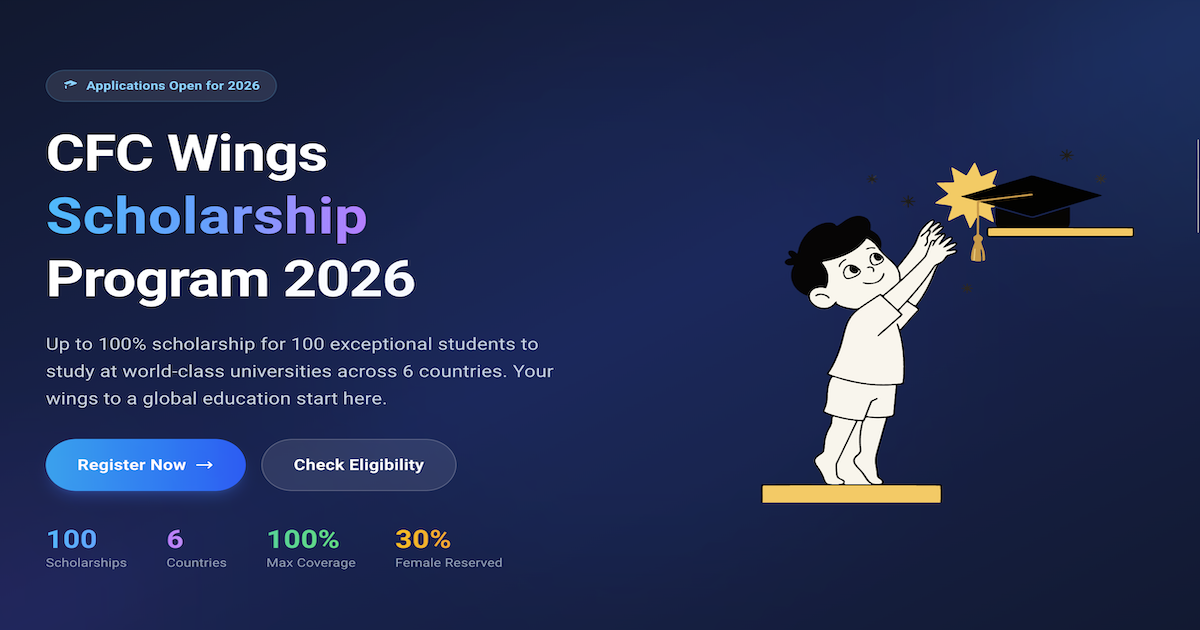
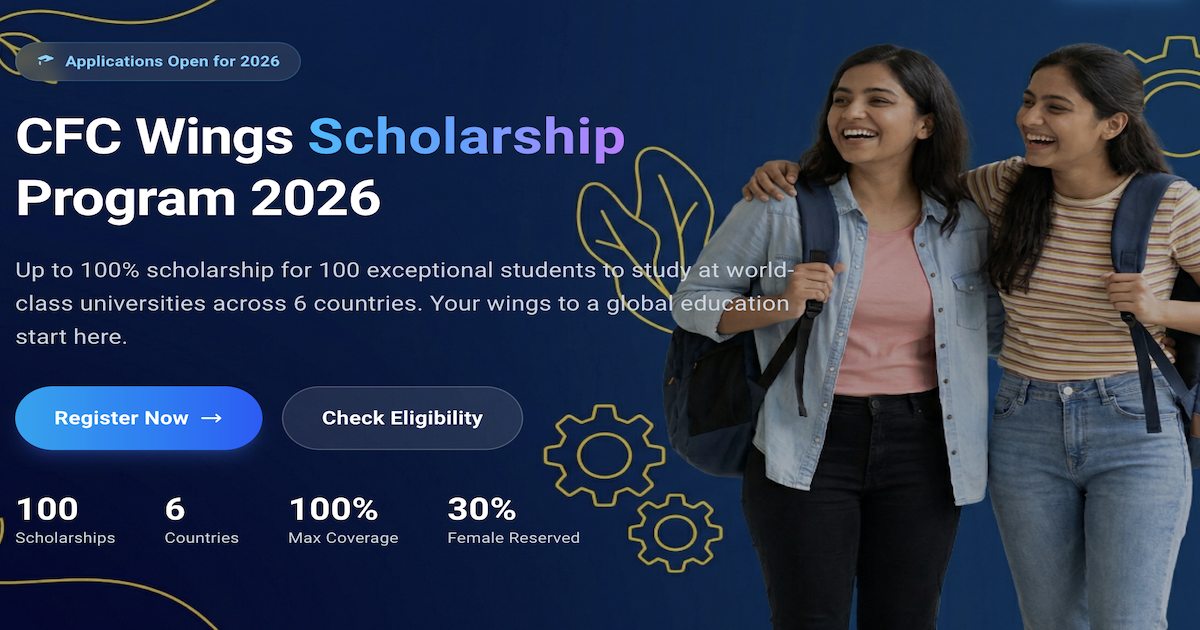
fix: Update route handling in server.js to support dynamic paths and enhance Wings Scholarship page with new background image and layout adjustments

diff --git a/client/src/pages/public/WingsScholarship.jsx b/client/src/pages/public/WingsScholarship.jsx
@@ -52,92 +52,79 @@ const WingsScholarship = () => {
       {/* ============================================================ */}
       {/* SECTION 1: HERO - Text Left, Image Right */}
       {/* ============================================================ */}
-      <section className="relative overflow-hidden bg-gradient-to-br from-slate-900 via-blue-950 to-slate-900 lg:h-screen lg:min-h-[700px]">
-        {/* Background decorative elements */}
-        <div className="absolute top-0 right-0 w-96 h-96 bg-gradient-to-bl from-sky-500/15 to-transparent rounded-full blur-3xl" />
-        <div className="absolute bottom-0 left-0 w-80 h-80 bg-gradient-to-tr from-purple-500/10 to-transparent rounded-full blur-3xl" />
-        <div className="absolute top-1/2 left-1/2 -translate-x-1/2 -translate-y-1/2 w-[600px] h-[600px] bg-blue-500/5 rounded-full blur-3xl" />
+      <section
+        className="relative overflow-hidden lg:h-screen lg:min-h-[700px]"
+        style={{
+          backgroundImage: 'url(/images/hero-scholarship.jpg)',
+          backgroundSize: 'cover',
+          backgroundPosition: 'center',
+        }}
+      >
+        {/* Dark overlay for text readability */}
+        <div className="absolute inset-0 bg-black/25" />
 
-        <div className="container mx-auto px-4 py-16 md:py-24 lg:py-0 lg:h-full lg:flex lg:items-center">
-          <div className="grid lg:grid-cols-2 gap-12 lg:gap-16 items-center w-full">
-            {/* Left: Text */}
-            <motion.div
-              initial={{ opacity: 0, x: -40 }}
-              animate={{ opacity: 1, x: 0 }}
-              transition={{ duration: 0.7 }}
-            >
-              <span className="inline-flex items-center gap-2 px-4 py-2 bg-white/10 backdrop-blur-sm rounded-full text-sky-300 text-sm font-semibold border border-sky-400/20 shadow-sm mb-6">
-                <svg className="w-4 h-4" fill="currentColor" viewBox="0 0 20 20"><path d="M10.394 2.08a1 1 0 00-.788 0l-7 3a1 1 0 000 1.84L5.25 8.051a.999.999 0 01.356-.257l4-1.714a1 1 0 11.788 1.838L7.667 9.088l1.94.831a1 1 0 00.787 0l7-3a1 1 0 000-1.838l-7-3zM3.31 9.397L5 10.12v4.102a8.969 8.969 0 00-1.05-.174 1 1 0 01-.89-.89 11.115 11.115 0 01.25-3.762z" /></svg>
-                Applications Open for 2026
-              </span>
+        <div className="relative z-10 container mx-auto px-4 py-16 md:py-24 lg:py-0 lg:h-full lg:flex lg:items-center">
+          <motion.div
+            initial={{ opacity: 0, y: 30 }}
+            animate={{ opacity: 1, y: 0 }}
+            transition={{ duration: 0.7 }}
+            className="max-w-2xl"
+          >
+            <span className="inline-flex items-center gap-2 px-4 py-2 bg-white/10 backdrop-blur-sm rounded-full text-sky-300 text-sm font-semibold border border-sky-400/20 shadow-sm mb-6">
+              <svg className="w-4 h-4" fill="currentColor" viewBox="0 0 20 20"><path d="M10.394 2.08a1 1 0 00-.788 0l-7 3a1 1 0 000 1.84L5.25 8.051a.999.999 0 01.356-.257l4-1.714a1 1 0 11.788 1.838L7.667 9.088l1.94.831a1 1 0 00.787 0l7-3a1 1 0 000-1.838l-7-3zM3.31 9.397L5 10.12v4.102a8.969 8.969 0 00-1.05-.174 1 1 0 01-.89-.89 11.115 11.115 0 01.25-3.762z" /></svg>
+              Applications Open for 2026
+            </span>
 
-              <h1 className="text-4xl md:text-5xl lg:text-6xl font-bold text-white mb-6 leading-tight">
-                CFC Wings{' '}
-                <span className="bg-gradient-to-r from-sky-400 via-blue-400 to-purple-400 bg-clip-text text-transparent">
-                  Scholarship
-                </span>{' '}
-                Program 2026
-              </h1>
+            <h1 className="text-4xl md:text-5xl lg:text-6xl font-bold text-white mb-6 leading-tight">
+              CFC Wings{' '}
+              <span className="bg-gradient-to-r from-sky-400 via-blue-400 to-purple-400 bg-clip-text text-transparent">
+                Scholarship
+              </span>{' '}
+              Program 2026
+            </h1>
 
-              <p className="text-lg md:text-xl text-slate-300 mb-8 leading-relaxed max-w-xl">
-                Up to 100% scholarship for 100 exceptional students to study at world-class universities across 6 countries. Your wings to a global education start here.
-              </p>
+            <p className="text-lg md:text-xl text-slate-300 mb-8 leading-relaxed">
+              Up to 100% scholarship for 100 exceptional students to study at world-class universities across 6 countries. Your wings to a global education start here.
+            </p>
 
-              <div className="flex flex-wrap gap-4 mb-10">
-                <a
-                  href={EVENT_URL}
-                  target="_blank"
-                  rel="noopener noreferrer"
-                  className="px-8 py-4 bg-gradient-to-r from-sky-500 to-blue-600 text-white rounded-full font-bold text-lg hover:from-sky-400 hover:to-blue-500 transition-all shadow-lg shadow-blue-500/25 inline-flex items-center gap-2"
-                >
-                  Register Now
-                  <svg className="w-5 h-5" fill="none" stroke="currentColor" viewBox="0 0 24 24"><path strokeLinecap="round" strokeLinejoin="round" strokeWidth={2} d="M17 8l4 4m0 0l-4 4m4-4H3" /></svg>
-                </a>
-                <a
-                  href="#eligibility"
-                  className="px-8 py-4 bg-white/10 text-white rounded-full font-semibold text-lg border border-white/20 hover:bg-white/20 transition-all inline-flex items-center gap-2"
-                >
-                  Check Eligibility
-                </a>
+            <div className="flex flex-wrap gap-4 mb-10">
+              <a
+                href={EVENT_URL}
+                target="_blank"
+                rel="noopener noreferrer"
+                className="px-8 py-4 bg-gradient-to-r from-sky-500 to-blue-600 text-white rounded-full font-bold text-lg hover:from-sky-400 hover:to-blue-500 transition-all shadow-lg shadow-blue-500/25 inline-flex items-center gap-2"
+              >
+                Register Now
+                <svg className="w-5 h-5" fill="none" stroke="currentColor" viewBox="0 0 24 24"><path strokeLinecap="round" strokeLinejoin="round" strokeWidth={2} d="M17 8l4 4m0 0l-4 4m4-4H3" /></svg>
+              </a>
+              <a
+                href="#eligibility"
+                className="px-8 py-4 bg-white/10 text-white rounded-full font-semibold text-lg border border-white/20 hover:bg-white/20 transition-all inline-flex items-center gap-2"
+              >
+                Check Eligibility
+              </a>
+            </div>
+
+            {/* Quick stats row */}
+            <div className="flex flex-wrap gap-6 md:gap-10">
+              <div>
+                <div className="text-3xl font-bold text-white">100</div>
+                <div className="text-sm text-slate-300">Scholarships</div>
               </div>
-
-              {/* Quick stats row */}
-              <div className="flex flex-wrap gap-6 md:gap-10">
-                <div>
-                  <div className="text-3xl font-bold bg-gradient-to-r from-sky-400 to-blue-400 bg-clip-text text-transparent">100</div>
-                  <div className="text-sm text-slate-400">Scholarships</div>
-                </div>
-                <div>
-                  <div className="text-3xl font-bold bg-gradient-to-r from-purple-400 to-purple-300 bg-clip-text text-transparent">6</div>
-                  <div className="text-sm text-slate-400">Countries</div>
-                </div>
-                <div>
-                  <div className="text-3xl font-bold bg-gradient-to-r from-emerald-400 to-green-400 bg-clip-text text-transparent">100%</div>
-                  <div className="text-sm text-slate-400">Max Coverage</div>
-                </div>
-                <div>
-                  <div className="text-3xl font-bold bg-gradient-to-r from-amber-400 to-orange-400 bg-clip-text text-transparent">30%</div>
-                  <div className="text-sm text-slate-400">Female Reserved</div>
-                </div>
+              <div>
+                <div className="text-3xl font-bold text-white">6</div>
+                <div className="text-sm text-slate-300">Countries</div>
               </div>
-            </motion.div>
-
-            {/* Right: Image */}
-            <motion.div
-              initial={{ opacity: 0, x: 40 }}
-              animate={{ opacity: 1, x: 0 }}
-              transition={{ duration: 0.7, delay: 0.2 }}
-              className="relative flex items-center justify-center h-full"
-            >
-              <div className="relative w-full h-full flex items-center">
-                <img
-                  src="/images/scholarship-offer-child.svg"
-                  alt="CFC Wings Scholarship"
-                  className="relative w-full h-auto object-contain"
-                />
+              <div>
+                <div className="text-3xl font-bold text-white">100%</div>
+                <div className="text-sm text-slate-300">Max Coverage</div>
               </div>
-            </motion.div>
-          </div>
+              <div>
+                <div className="text-3xl font-bold text-white">30%</div>
+                <div className="text-sm text-slate-300">Female Reserved</div>
+              </div>
+            </div>
+          </motion.div>
         </div>
       </section>
 

diff --git a/client/server.js b/client/server.js
@@ -61,7 +61,7 @@ function injectMeta(html, meta) {
 app.use(express.static(DIST, { index: false }));
 
 // All other routes: serve index.html with injected meta
-app.get('*', (req, res) => {
+app.get('/{*path}', (req, res) => {
   const meta = pageMeta[req.path];
   const html = injectMeta(indexHtml, meta);
   res.setHeader('Content-Type', 'text/html');
